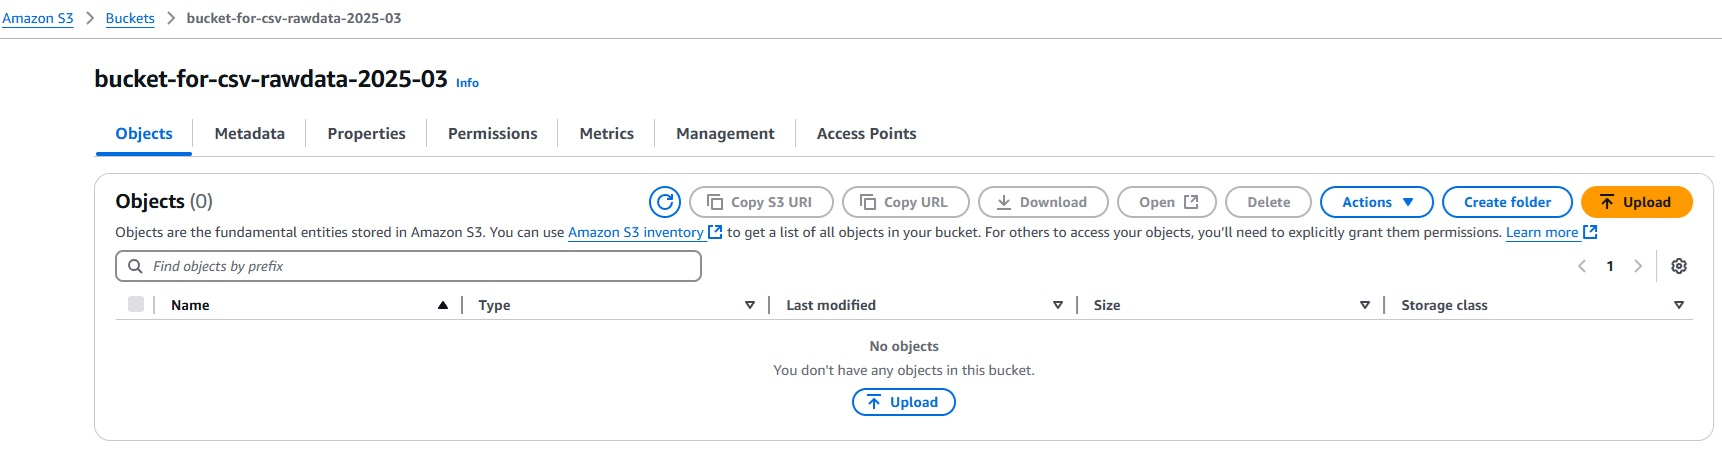
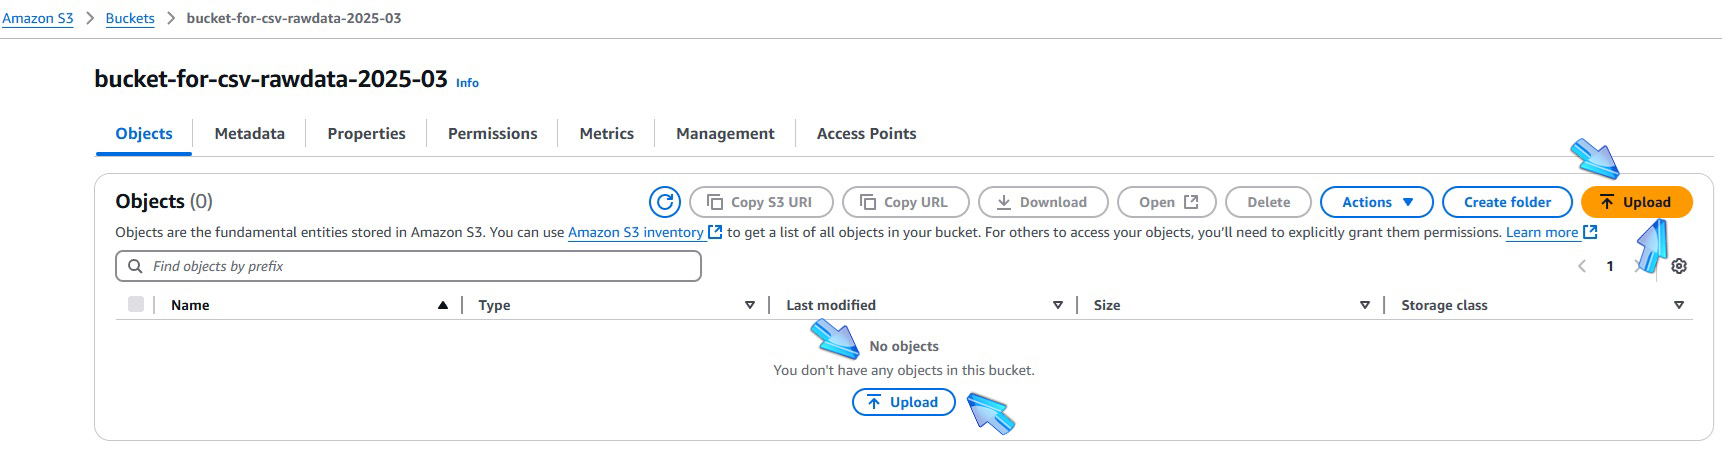
Update S3 upload instructions and add new image for customer.csv

diff --git a/thisisthelab.md b/thisisthelab.md
@@ -73,4 +73,14 @@
 ![S3 Create Bucket](./images/3a-S3CreateABucket.jpg)
 ![S3 Buckets Names](./images/4a-S3BucketsCriadosX.jpg)
 
-# 2.2 
+# 2.2 - Upload [![Files badge](https://img.shields.io/badge/customer.csv-%23000000?logo=Files&logoColor=yellow&labelColor=blue)](https://github.com/Acheroniano/aws-glue-crawlers-deepseek/blob/main/customer.csv)
+
+###### ![Brazil](https://github.com/Acheroniano/flag-icon/blob/master/png/16/country-4x3/br.png "Brazil") 
+##### ** Clique no botão upload para escolher o arquivo [![Files badge](https://img.shields.io/badge/customer.csv-%23000000?logo=Files&logoColor=yellow&labelColor=blue)](https://github.com/Acheroniano/aws-glue-crawlers-deepseek/blob/main/customer.csv) **
+
+###### ![United States](https://github.com/Acheroniano/flag-icon/blob/master/png/16/country-4x3/us.png "United States") 
+##### ** Click on upload button to choose the file [![Files badge](https://img.shields.io/badge/customer.csv-%23000000?logo=Files&logoColor=yellow&labelColor=blue)](https://github.com/Acheroniano/aws-glue-crawlers-deepseek/blob/main/customer.csv) **
+
+![S3 Upload customer.csv](./images/5a-S3RawDataUpload.jpg)
+
+
